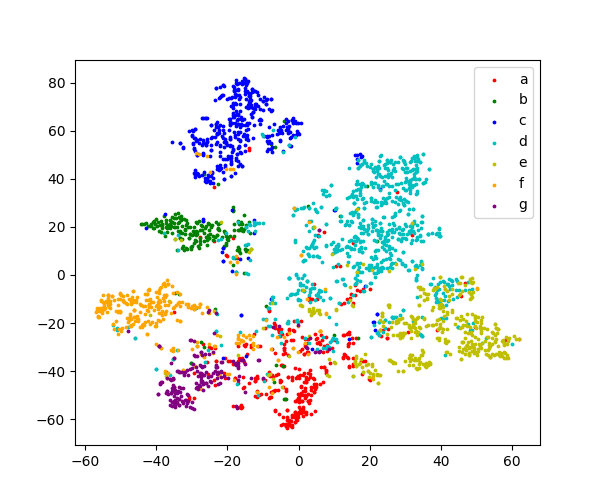
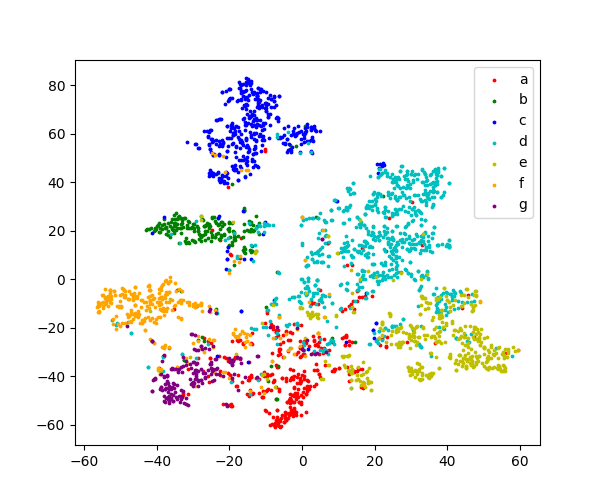
done

diff --git a/toptimize/utils.py b/toptimize/utils.py
@@ -6,7 +6,7 @@ from sklearn.metrics import confusion_matrix, ConfusionMatrixDisplay
 import numpy as np
 
 def print_dataset_stat(dataset, data):
-    print()
+    input('Dataset Statistics'+str('='*40))
     print(f'Dataset: {dataset}:')
     print('===========================================================================================================')
     print(f'Number of graphs: {len(dataset)}')
@@ -29,6 +29,7 @@ def print_dataset_stat(dataset, data):
     print(f'Edge index: {data.edge_index} {data.edge_index.shape}')
 
 def print_label_relation(data):
+    input('Label Relation'+str('='*40))
     A = to_dense_adj(data.edge_index)[0]
     A.fill_diagonal_(1)
     gold_Y = F.one_hot(data.y).float()
@@ -56,7 +57,9 @@ def print_label_relation(data):
     print(f'Gold A: {sorted_gold_A}')
     print(f'Shape: {sorted_gold_A.shape}')
 
+
 def compare_topology(pred_A, data, cm_filename='confusion_matrix_display'):
+    input('Confusion Matrix '+str('='*40))
     gold_Y = F.one_hot(data.y).float()
     gold_A = torch.matmul(gold_Y, gold_Y.T)
     
@@ -71,9 +74,7 @@ def compare_topology(pred_A, data, cm_filename='confusion_matrix_display'):
     tpr = tp/(tp+fn)
     tnr = tn/(tn+fp)
     f1 = 2*(ppv*tpr)/(ppv+tpr)
-    print()
-    print('Confusion Matrix')
-    print('============================================================')
+
     print(f'Flatten A: {flat_pred_A}')
     print(f'Shape: {flat_pred_A.shape}')
     print(f'Number of Positive Prediction: {flat_pred_A.sum()} ({flat_pred_A.sum().true_divide(len(flat_pred_A))})')
@@ -100,7 +101,8 @@ def compare_topology(pred_A, data, cm_filename='confusion_matrix_display'):
     plt.close()
 
 
-def plot_tsne(tsne_x, tsne_y, fig_name, label_names=None):
+def plot_tsne(tsne_x, tsne_y, figname, label_names=None):
+    input('Plot TSNE'+str('='*40))
     from sklearn.manifold import TSNE
     from matplotlib import pyplot as plt
     
@@ -118,12 +120,14 @@ def plot_tsne(tsne_x, tsne_y, fig_name, label_names=None):
     plt.figure(figsize=(6, 5))
     colors = 'r', 'g', 'b', 'c', 'y', 'orange', 'purple'
     for i, c, label in zip(target_ids, colors, label_names):
-        plt.scatter(X_2d[tsne_y == i, 0], X_2d[tsne_y == i, 1], c=c, s=3, label=label)
+        plt.scatter(X_2d[tsne_y == i, 0], X_2d[tsne_y == i, 1], c=c, s=2, label=label)
     plt.legend()
-    plt.savefig(fig_name)
+    plt.savefig(figname)
     plt.clf()
     plt.cla()
     plt.close()
+
+    print('Saved as', figname)
 
 def cpu(variable):
     if hasattr(variable, 'is_cuda') and variable.is_cuda:
@@ -142,6 +146,7 @@ def sort_topology(adj, sorted_Y_indices):
     return adj
 
 def plot_topology(adj, data, figname, sorting=False):
+    input('Plot Topology'+str('='*40))
     from matplotlib import pyplot as plt
     fig = plt.gcf()
     DPI = fig.get_dpi()
@@ -160,12 +165,15 @@ def plot_topology(adj, data, figname, sorting=False):
     plt.cla()
     plt.close()
 
+    print('Saved as', figname)
+
 def zero_to_nan(adj):
     nan_adj = np.copy(adj).astype('float')
     nan_adj[nan_adj==0] = np.nan # Replace every 0 with 'nan'
     return nan_adj
 
 def plot_sorted_topology_with_gold_topology(adj, gold_adj, data, figname, sorting=False):
+    input('Plot Sorted Topology With Gold Topology'+str('='*40))
     from matplotlib import pyplot as plt
     fig = plt.gcf()
     DPI = fig.get_dpi()
@@ -201,3 +209,4 @@ def plot_sorted_topology_with_gold_topology(adj, gold_adj, data, figname, sortin
     plt.clf()
     plt.cla()
     plt.close()
+    print('Saved as', figname)
